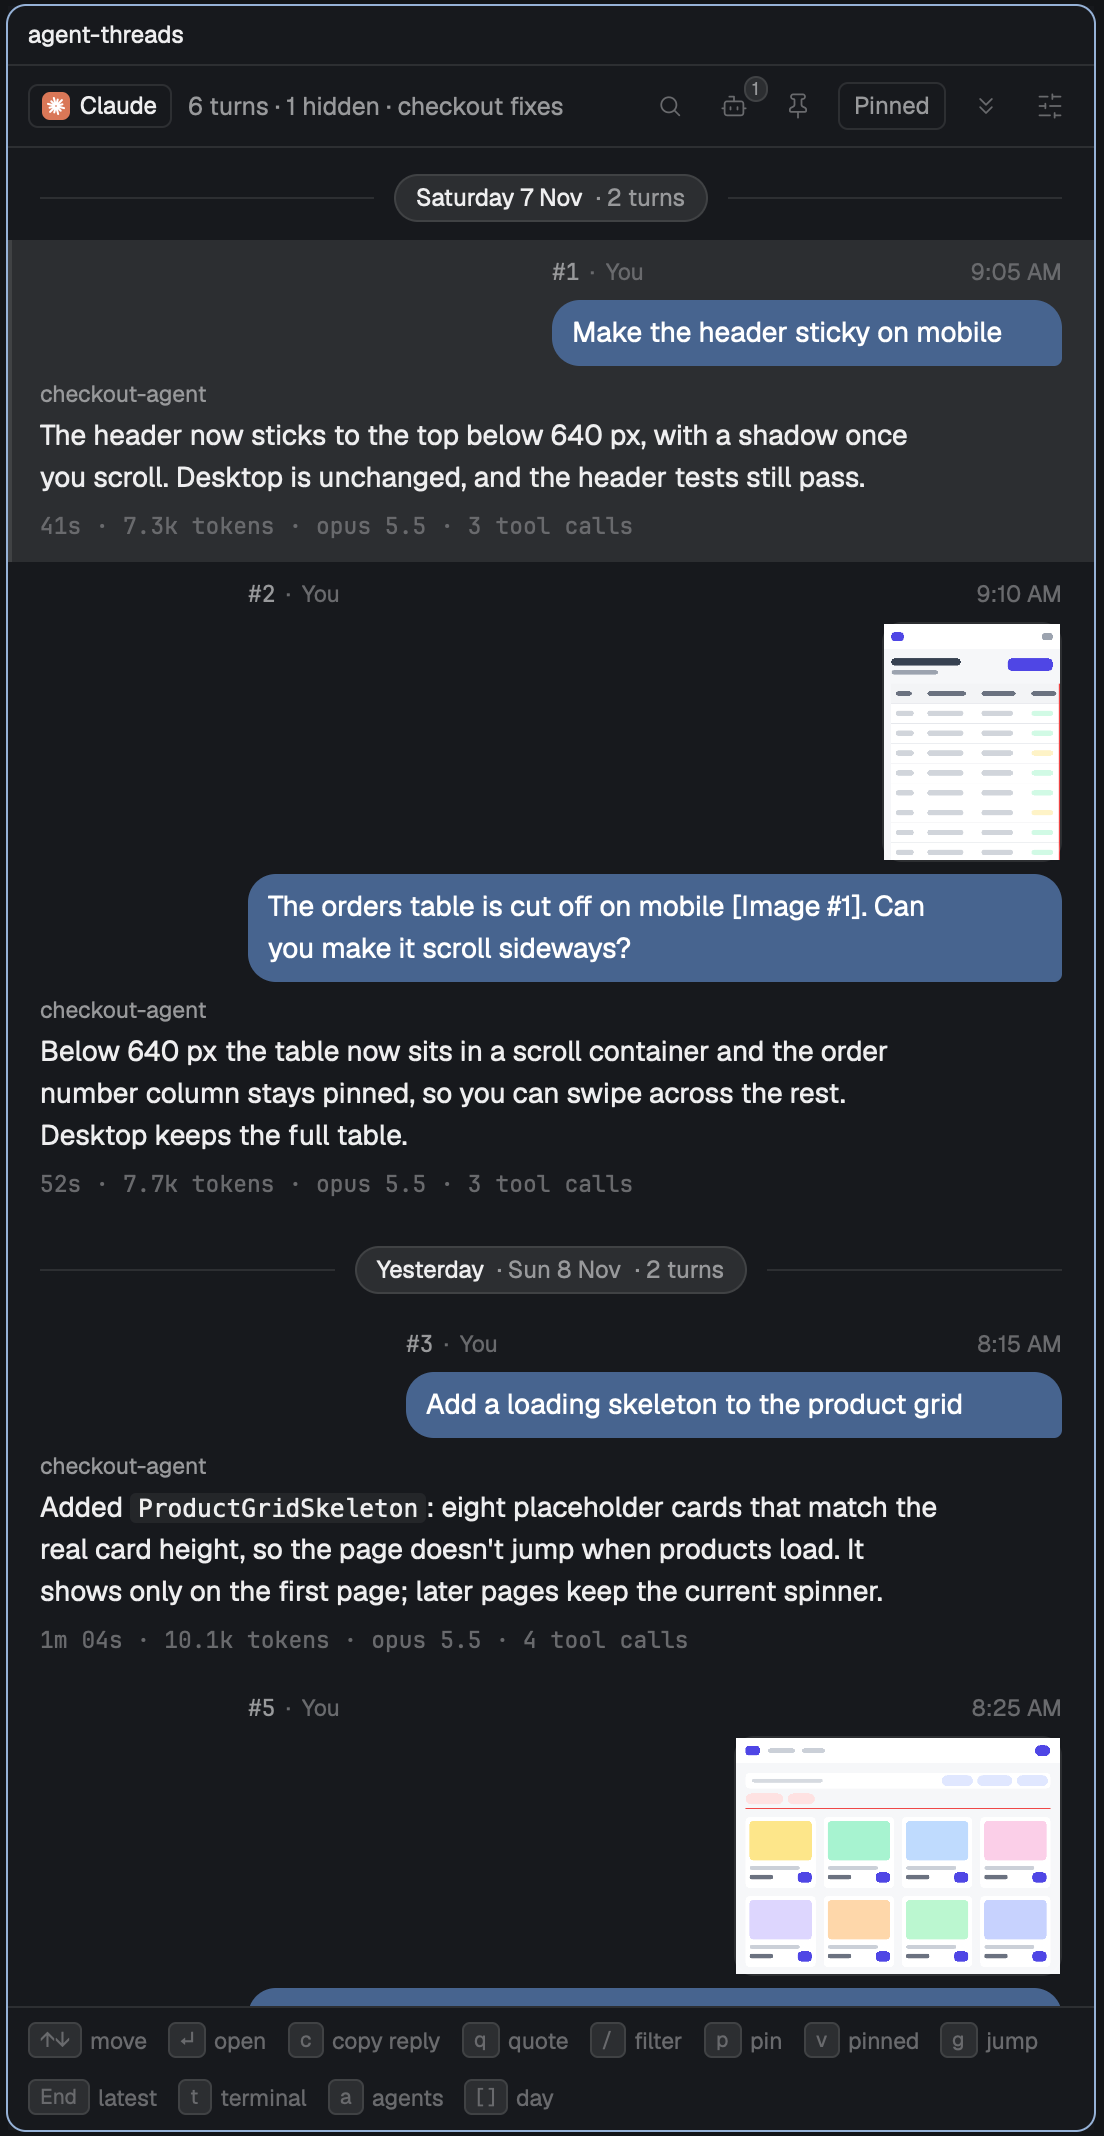
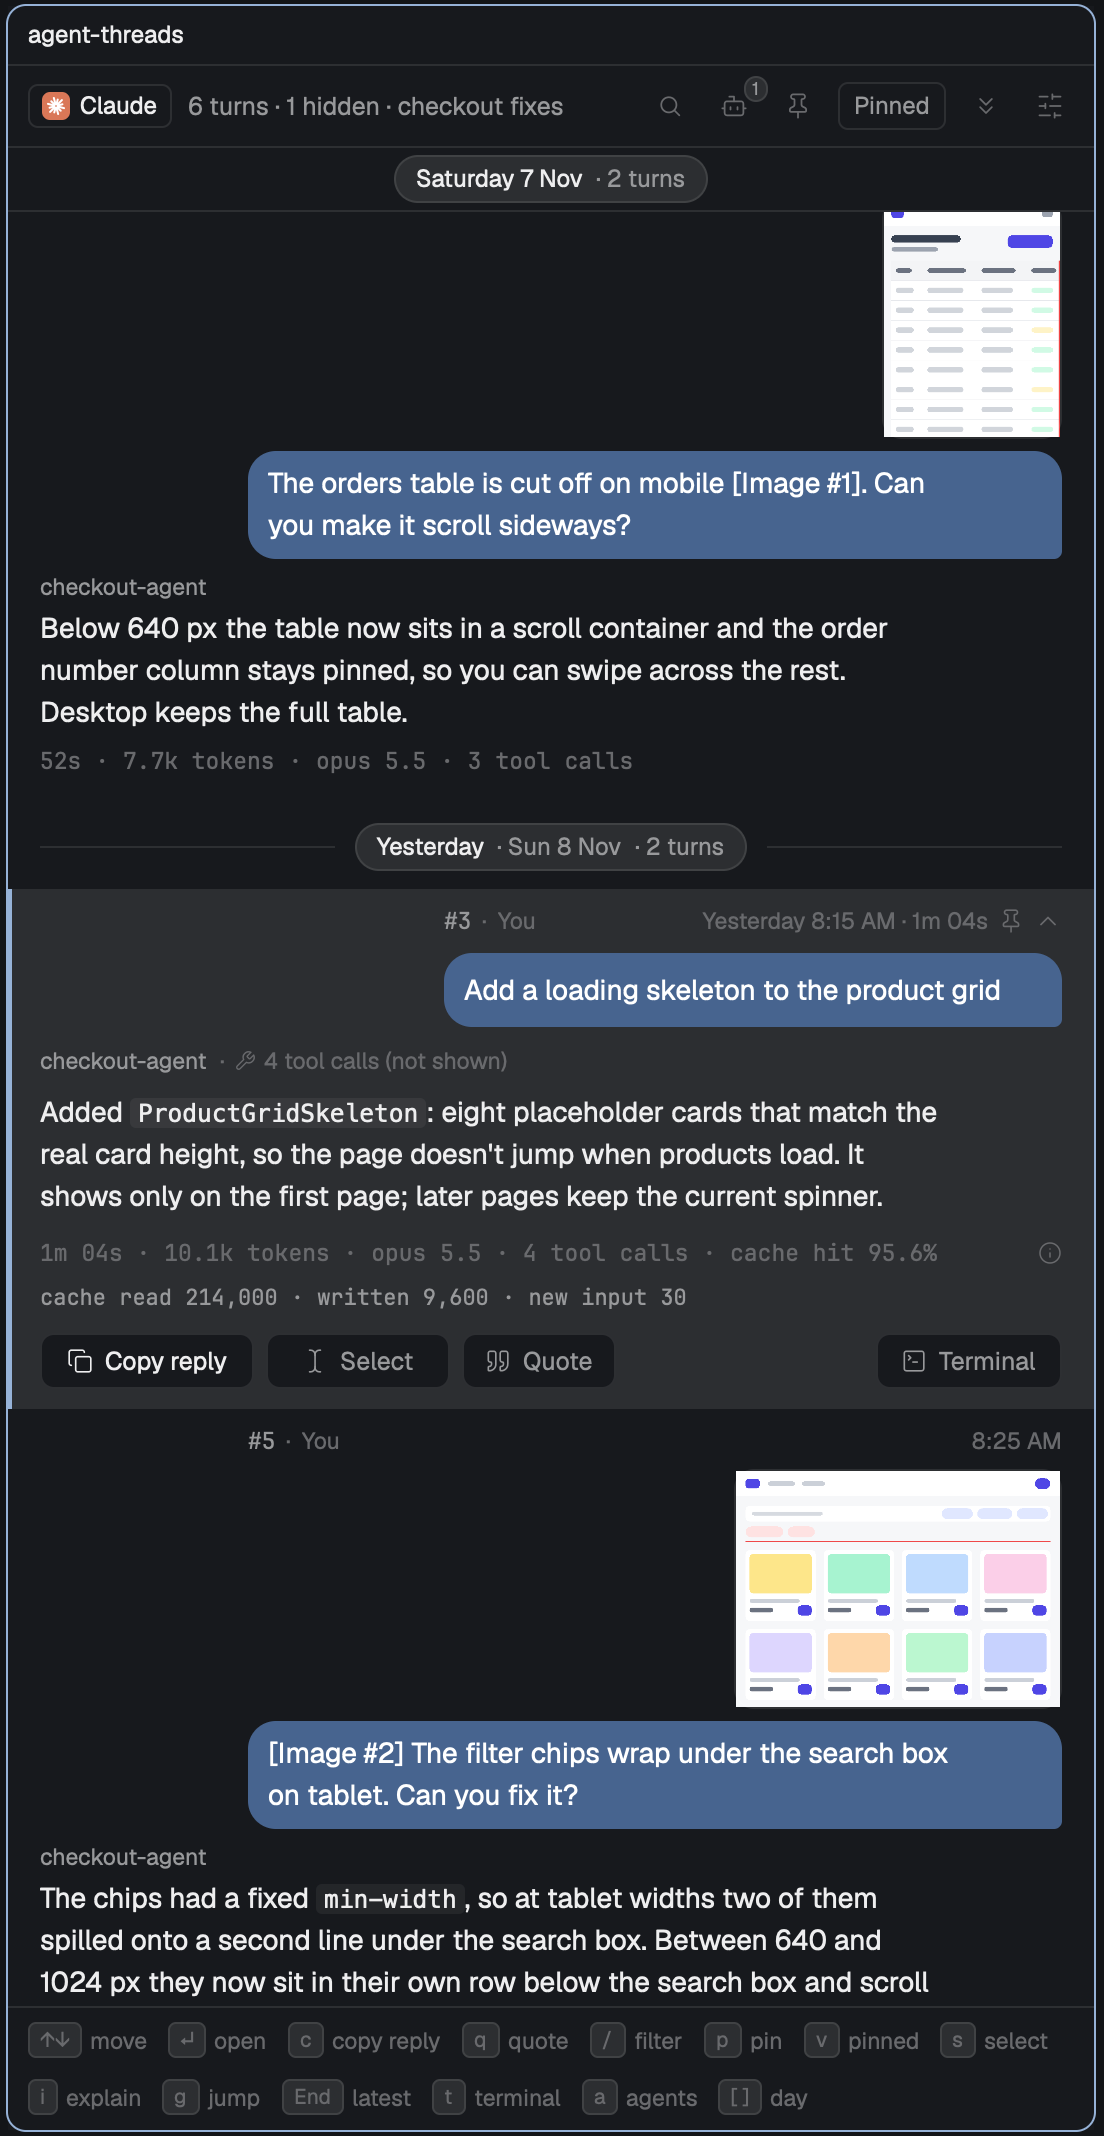
Retake the shots for the reading width, the image viewer and the day strip
days.png now shows a day's pill in its strip above the list, and images.png the
new "click for full window" line. Two new shots: viewer.png, the image viewer over
the whole window, and width.png, a wide pane with Keep to reading width off and the
Fit button. make-hero.js gains a "pair" flag for a turn with two images. The other
shots come out the same when Threads opens at 960 px and fits itself, so they stay.
The new images stay unpinned in scan-approved.txt until the owner approves them.

Claude-Session: https://claude.ai/code/session_01A8ps59dFareQDbTrf4WXkY

diff --git a/test/make-hero.js b/test/make-hero.js
@@ -2,11 +2,12 @@
 // storefront project, acme-web. Same line shapes as test/make-fixture.js. Nothing here
 // comes from a real session, and both pasted images are drawn below, with no text in them.
 // docs/develop.md has the steps that turn this into the screenshots.
-// Usage: bun test/make-hero.js <out.jsonl> <cwd> <startISO> [days] [wake]
+// Usage: bun test/make-hero.js <out.jsonl> <cwd> <startISO> [days] [wake] [pair]
 // With "days", turns 3 and 5 start a day after the turn before, so the pane shows day bands.
 // With "wake", a background update follows the last turn: a task notification woke the agent
 // 95 s before the script ran and it is still working, so with the terminal reporting working the
 // last turn shows its "Updating" line. Its times are relative to now, so write it just before the shot.
+// With "pair", turn 5 has two pasted images, so the image viewer has one to step to.
 import { writeFileSync } from "node:fs";
 import { deflateSync } from "node:zlib";
 
@@ -189,8 +190,12 @@ assistant([{ type: "text", text: "Added alt text to all three: the product name 
 end(33000);
 
 // Turn 5: a pasted image of a tablet page
-p = prompt([{ type: "text", text: "[Image #2] The filter chips wrap under the search box on tablet. Can you fix it?" },
-  { type: "image", source: { type: "base64", media_type: "image/png", data: mock.toString("base64") } }], 300, { imagePasteIds: [2] });
+p = flags.includes("pair")
+  ? prompt([{ type: "text", text: "[Image #2] [Image #3] The filter chips wrap under the search box on tablet, in both orientations. Can you fix it?" },
+    { type: "image", source: { type: "base64", media_type: "image/png", data: mock.toString("base64") } },
+    { type: "image", source: { type: "base64", media_type: "image/png", data: phone.toString("base64") } }], 300, { imagePasteIds: [2, 3] })
+  : prompt([{ type: "text", text: "[Image #2] The filter chips wrap under the search box on tablet. Can you fix it?" },
+    { type: "image", source: { type: "base64", media_type: "image/png", data: mock.toString("base64") } }], 300, { imagePasteIds: [2] });
 tool("Read", { file_path: `${cwd}/src/components/FilterBar.tsx` }, "…", p);
 tool("Edit", { file_path: `${cwd}/src/components/FilterBar.tsx` }, "…", p);
 tool("Edit", { file_path: `${cwd}/src/styles/filters.css` }, "…", p);

diff --git a/README.md b/README.md
@@ -75,14 +75,14 @@ To quote part of a reply on Herdr 0.1.13 or newer, open the turn, drag across th
 <td width="50%" valign="top"><a href="docs/screenshots/search.png"><img src="docs/screenshots/search.png" alt="The list narrowed by a search for tests"></a><br>Typing "tests" after <code>/</code> narrows six turns to three.</td>
 </tr>
 <tr>
-<td width="50%" valign="top"><a href="docs/screenshots/images.png"><img src="docs/screenshots/images.png" alt="A pasted image as a tile over the message, and larger under it"></a><br>A pasted image is a tile over your message. In an open turn a click on the tile shows it larger.</td>
+<td width="50%" valign="top"><a href="docs/screenshots/images.png"><img src="docs/screenshots/images.png" alt="A pasted image as a tile over the message, and larger under it"></a><br>A pasted image is a tile over your message. In an open turn a click on the tile shows it larger, and a click on that opens the viewer.</td>
 <td width="50%" valign="top"><a href="docs/screenshots/agent-messages.png"><img src="docs/screenshots/agent-messages.png" alt="A subagent report as a plum bubble on the left"></a><br>With agent messages on, a subagent's report is a plum bubble on the left, under its name.</td>
 </tr>
 <tr>
 <td colspan="2" valign="top"><a href="docs/screenshots/quote.png"><img src="docs/screenshots/quote.png" alt="The terminal prompt holding a quoted line, beside the pane"></a><br>After <code>q</code>, the prompt holds the reply as a <code>&gt;</code> quote, with the cursor under it.</td>
 </tr>
 <tr>
-<td width="50%" valign="top"><a href="docs/screenshots/days.png"><img src="docs/screenshots/days.png" alt="The list with a band for each day"></a><br>A session that runs over several days gets a band for each day, with its turn count.</td>
+<td width="50%" valign="top"><a href="docs/screenshots/days.png"><img src="docs/screenshots/days.png" alt="The list scrolled into a day, with that day's pill in a strip above it"></a><br>A session that runs over several days gets a band for each day, with its turn count. While you scroll through a day, its pill stays in a strip of its own above the list.</td>
 <td width="50%" valign="top"><a href="docs/screenshots/agents.png"><img src="docs/screenshots/agents.png" alt="The pane beside Codex, OpenCode, Pi, Cursor, Antigravity and Amp"></a><br>The pane beside Codex, OpenCode, Pi, Cursor and Antigravity, each with its own mark, and beside Amp, which it does not read. Each shows what its agent records, so Cursor's turn has no tokens or model.</td>
 </tr>
 <tr>
@@ -92,6 +92,10 @@ To quote part of a reply on Herdr 0.1.13 or newer, open the turn, drag across th
 <tr>
 <td width="50%" valign="top"><a href="docs/screenshots/pinned.png"><img src="docs/screenshots/pinned.png" alt="Two pinned turns in the Pinned column beside the list"></a><br>Two pinned turns in the Pinned column beside the list. Each pinned turn shows its pin number in its header.</td>
 <td width="50%" valign="top"><a href="docs/screenshots/updating.png"><img src="docs/screenshots/updating.png" alt="A finished turn with an Updating line under it"></a><br>A background task woke the agent after the last turn ended. The turn keeps its reply, and the Updating line shows the clock, tool calls and what the agent said last.</td>
+</tr>
+<tr>
+<td width="50%" valign="top"><a href="docs/screenshots/viewer.png"><img src="docs/screenshots/viewer.png" alt="The image viewer filling the Herdr window, on the first of two images"></a><br>The image viewer fills the Herdr window. Left and Right step through the message's images, and Esc closes it.</td>
+<td width="50%" valign="top"><a href="docs/screenshots/width.png"><img src="docs/screenshots/width.png" alt="A wide Threads pane with its turns in a centred column and a Fit button in the header"></a><br>With Keep to reading width off, a wider pane keeps its turns in a centred column, and the Fit button (or <code>w</code>) brings it back to 545 px.</td>
 </tr>
 </table>
 

diff --git a/docs/develop.md b/docs/develop.md
@@ -56,13 +56,14 @@ mkdir -p ~/code/acme-web && git -C ~/code/acme-web init -q
 git -C ~/code/acme-web remote add origin https://github.com/acme/acme-web.git
 bun test/make-hero.js hero.jsonl ~/code/acme-web 2026-11-09T15:05:00Z        # one day, so no day band or day pill
 bun test/make-hero.js days.jsonl ~/code/acme-web 2026-11-07T15:05:00Z days   # three days: shoot two days after the start, for Today and Yesterday
+bun test/make-hero.js pair.jsonl ~/code/acme-web 2026-11-09T15:05:00Z pair   # two images on turn 5, for the viewer
 bun test/make-agents.js agents ~/code/acme-web 2026-11-09T15:10:00Z          # Codex, OpenCode, Pi, Cursor and Antigravity sessions
 cc -o stage-claude test/hero/screen.c
 herdr-app do space.new --name acme-web --folder ~/code/acme-web --tab acme-web \
   --argv '["/abs/stage-claude","/abs/screen.txt","/abs/input.txt"]'
 herdr-app do pane.split --pane <pane> --direction right --mod agent-threads \
   --props '{"terminal":"<t>","transcript":"/abs/hero.jsonl","debug":false}'
-herdr-app do layout.resize --id <new pane> --px 545
+herdr-app do layout.resize --id <new pane> --px 545   # with Keep to reading width on, a wider pane also comes back to 545 by itself
 python3 test/hero/render.py <cols> <rows> /abs/screen.txt /abs/input.txt &    # size from: hc get <t> --json
 ```
 
@@ -74,13 +75,15 @@ Start each shot from a fresh launch with the window size set in `window.json`, w
 | `panel.png` | the same shot | | `1808 96 2912 2232` |
 | `open-turn.png` | the same shot | | `1808 1140 2912 2090` |
 | `light.png` | 1460x1150, `"appearance": "light"` in `settings.json` and `--light` on `render.py` | `open` | `552 96 2912 2232` |
-| `days.png` | 1460x1150, `days.jsonl` | `first` | `1808 96 2912 2232` |
+| `days.png` | 1460x1150, `days.jsonl` | `search:#3`, `open`, `open`, so the list scrolls into the first day and its pill sits in the strip | `1808 96 2912 2232` |
 | `search.png` | 1460x700 | `search:tests` | `1808 96 2912 1332` |
 | `images.png` | 1460x1150, `"debug": true` | `search:#5`, `open`, `open`, `debugClick:500:imgs:0:5` | `1808 242 2912 2232`, below the header, which shows timings in debug |
+| `viewer.png` | 1460x1150, `"debug": true`, a `pair` transcript (`make-hero.js pair.jsonl … pair`, two images on turn 5) | `search:#5`, `open`, `open`, `debugClick:500:imgs:0:5`, `debugClick:300:img:0:5:0` | none, the whole window |
 | `agent-messages.png` | 1460x1150 | `agents:on`, `search:#4`, `open`, `open`, then `agents:off` after the shot | `1808 96 2912 2232` |
 | `quote.png` | 1460x1150, `"debug": true`, `render.py` running | `search:#6`, `open`, `open`, `debugQuote` | `552 1418 2912 2232` |
 | `pinned.png` | 1760x1150 | `search:#3`, `open`, `pin`, `search:#7`, `open`, `pin` | `1904 96 3512 2232` |
 | `updating.png` | 1460x1150, a `wake` transcript written just before (`make-hero.js wake.jsonl … wake`) and `printf '\033]7501;state=working:app=claude-code\007'` in the stand-in's screen | `latest` | `1808 96 2912 2232` |
+| `width.png` | 1760x1150, `"readingWidth": false` in `settings.json`, Threads resized to 960 px | `open` | `1578 96 3512 2232` |
 | `agents.png` | 1460x720, the pane's `transcript` set to each file `make-agents.js` printed; for Amp, a terminal running a program named `amp` (a copy of `sleep` will do) and a Threads pane with no `transcript` | `first`, `open` | `1808 96 2912 1372` each, in a 3 by 2 grid (Codex, OpenCode, Pi, then Cursor, Antigravity, Amp) 20 px apart on `#0f1012` |
 
 `quote.png` and `images.png` need `"debug": true` in the props, because `debugQuote` and `debugClick` run only with it, and debug adds a timing text to the pane header, which those crops leave out. `agents:on` saves to settings, so turn it off before the next shot.
